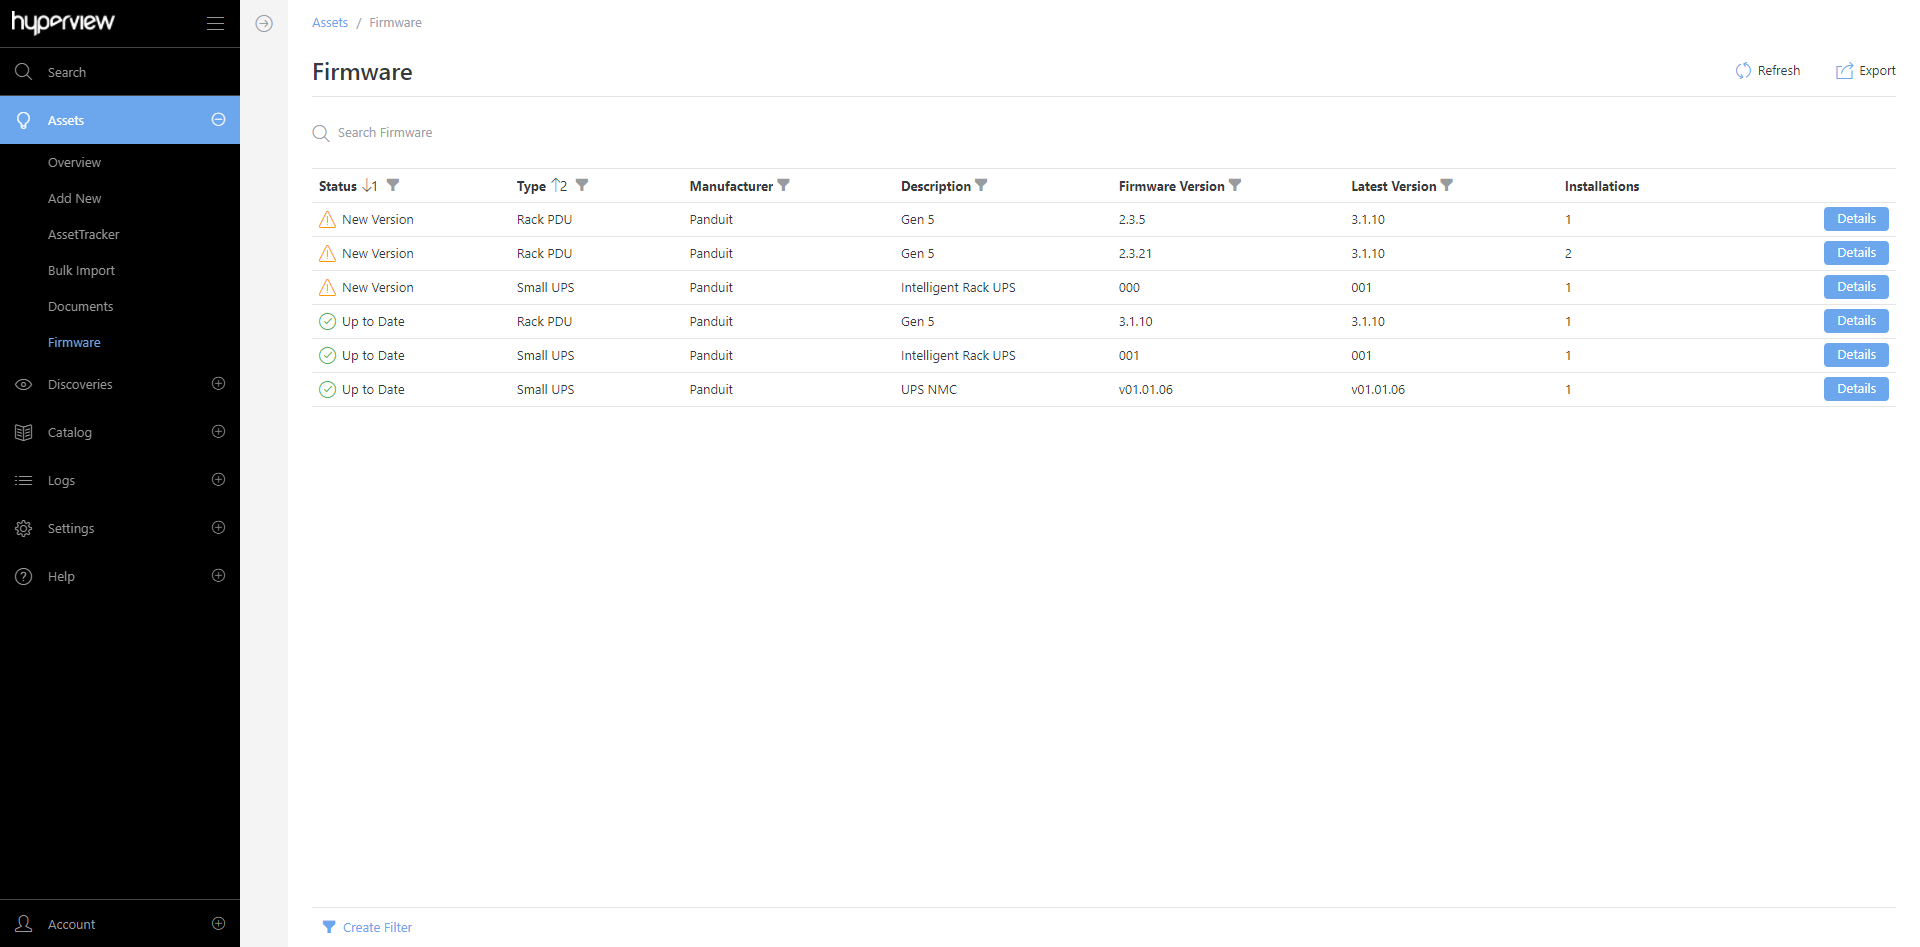
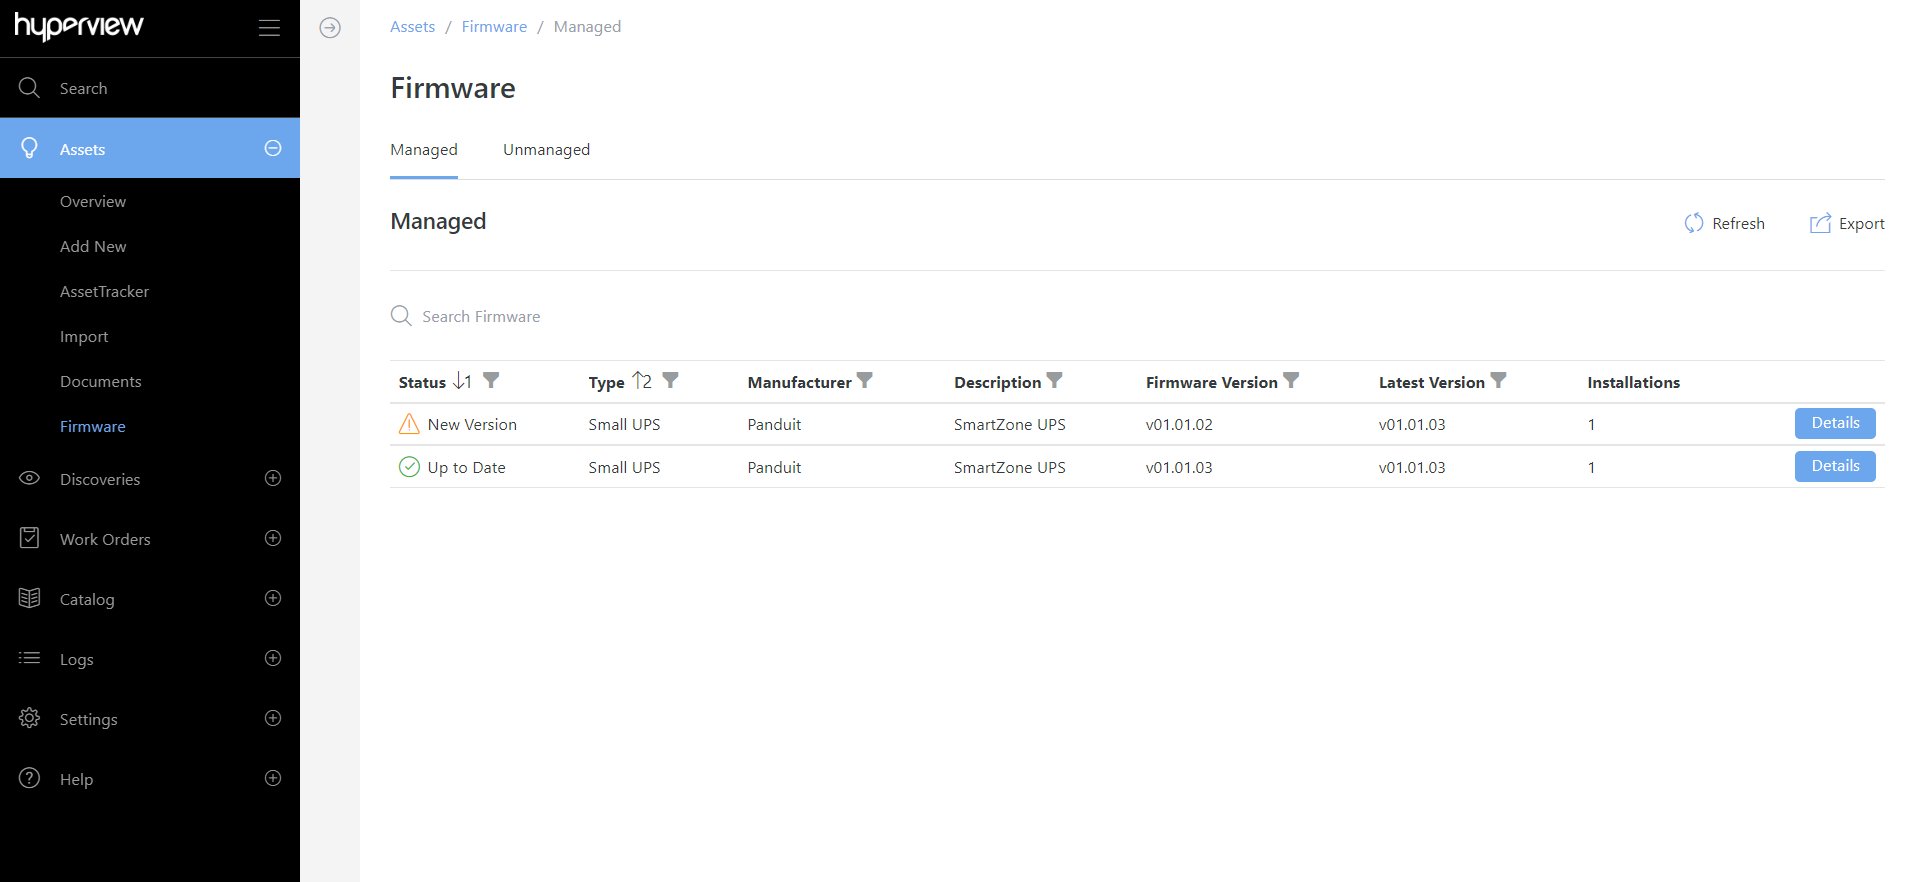
AS-11459 updated firmware docs to reflect changes in release 3.5

diff --git a/documentation/firmware-management/index.rst b/documentation/firmware-management/index.rst
@@ -5,15 +5,16 @@
 Firmware Management
 *******************
 
-Hyperview Firmware Management is a separately licensed set of features that lets you view and interact with firmware records. Firmware Management is powered by the Hyperview Catalog service. With a Firmware Management license you can, for example:
+Hyperview Firmware Management is a separately licensed set of features that lets you view and interact with firmware records. Firmware Management is powered by the Hyperview Catalog service.
+
+With a Firmware Management license you can, for example:
 
 * Look up assets that have a specific firmware version installed
 * Review firmware versions and associated assets
 * Download firmware
 * View firmware release notes
 * Get alerted to outdated firmware
-
-Additional features are planned in upcoming releases.
+* Update firmware for device models with managed firmware, individually or in bulk
 
 .. note:: Only licensed instances will have relevant features. To confirm if you have a Firmware Management license, check the License page (*Settings → License*, Administrator-only).
 
@@ -49,7 +50,7 @@ Note that firmware can only be managed for discoverable physical devices. These 
 * Environmental
 * Fire Control Panel
 * Generator
-* In Row Colling
+* In Row Cooling
 * KVM Switch
 * Monitor
 * Network Device
@@ -66,8 +67,6 @@ Note that firmware can only be managed for discoverable physical devices. These 
 * UPS
 * Utility Breaker
 
-.. note:: Please contact Hyperview Support to ensure firmware versions of your target devices are correctly mapped in Catalog.
-
 ===================================
 How are firmware versions detected?
 ===================================
@@ -78,7 +77,7 @@ Hyperview uses the Firmware Version property (asset → *Information → Propert
 
 In both contexts, an asset is considered to have "managed firmware" only if the asset's firmware group is mapped in Hyperview Product Catalog. (A "firmware group" consists of firmware versions for a specific product model.)
 
-Upon discovery the Firmware Version property becomes read-only to prevent human error (it automatically gets updated upon rediscovery if the installed version has changed). If you merge two assets with discovered and manually updated Firmware Version values, the discovered value is retained and rendered read-only. In other words, discovered firmware versions are always preferred.
+Upon discovery, the Firmware Version property becomes read-only to prevent human error (it automatically gets updated upon rediscovery if the installed version has changed). If you merge two assets with discovered and manually updated Firmware Version values, the discovered value is retained and rendered read-only. In other words, discovered firmware versions are always preferred.
 
 |fv-property|
 
@@ -87,32 +86,29 @@ Upon discovery the Firmware Version property becomes read-only to prevent human 
 ============================================
 Who can access Firmware Management features?
 ============================================
-As of Hyperview 3.4, any user can access Firmware Management features as long as:
-
-* You are using a Firmware Management-licensed instance (see :ref:`View license<View-license-doc>`.
-* You have access to at least one asset with managed firmware.
+As of Hyperview 3.4, any user can access Firmware Management features as long as you are using a Firmware Management-licensed instance (see :ref:`View license<View-license-doc>`.
 
 ====================================
 Navigating Firmware Management pages
 ====================================
 Hyperview features two main Firmware Management pages that can be considered "landing pages" for the feature set. These are:
 
-* The Firmware page (*Assets → Firmware*), which opens a grid of managed firmware that is grouped by manufacturer, asset type, and installed firmware version. It features a Details button at the row level to look up assets that have the same firmware version installed.
+* The Firmware page (*Assets → Firmware*), which opens a grid of managed and unmanaged firmware that is grouped by manufacturer, asset type, and installed firmware version. It features a Details button at the row level to look up assets that have the same firmware version installed.
 * The Information → Firmware page (asset → *Information → Firmware*), which opens a grid of installed and available firmware versions, as well as relevant action buttons.
 
 Why is my Firmware page empty?
 ------------------------------
-The Firmware grid (*Assets → Firmware*) only gets populated when there is at least one asset with a managed firmware version installed.
+The Firmware grid (*Assets → Firmware*) only gets populated when there is at least one asset with a firmware version.
 
 * Administrators can run discoveries to detect assets with firmware version metadata.
 * Power Users and above can specify a Firmware Version value for manually created assets.
 
-In both cases, the asset's firmware group must be mapped in Hyperview Product Catalog. Furthermore, you must :ref:`have access<Who-can-access-doc>` to the asset records to be able to see them.
+In both cases you must :ref:`have access<Who-can-access-doc>` to the asset records to be able to see them.
 
 =====================================================
 Reviewing firmware installations for a firmware group
 =====================================================
-* Go to *Assets → Firmware → Details → Installations* (the Installations tab opens by default).
+* Go to *Assets → Firmware → Managed or Unmanaged → Details → Installations* (the Installations tab opens by default).
 
 The grid will show assets that have a relevant firmware version installed. Note that you must have access to the assets in question to be able to see them.
 
@@ -123,10 +119,8 @@ The grid will show assets that have a relevant firmware version installed. Note 
 ===========================
 Reviewing firmware versions
 ===========================
-To look up firmware versions at the firmware group level:
-* Go to *Assets → Firmware → Details → Versions*.
-
-.. note:: As of Hyperview 3.4, the Firmware grid (*Assets → Firmware*) only shows firmware groups that are mapped in the Hyperview Product Catalog.
+For Managed Firmware, to look up versions at the firmware group level:
+* Go to *Assets → Firmware → Managed → Details → Versions*.
 
 To look up firmware versions for a given asset:
 * Browse to the asset → *Information → Firmware*.
@@ -135,13 +129,17 @@ Note that the Information → Firmware page will indicate the currently installe
 
 |info-firmware|
 
-Downloading a firmware version / Viewing firmware release notes
----------------------------------------------------------------
-The Firmware and Information → Firmware pages both feature Download Firmware and View Release Notes buttons, which allow you to download a certain firmware version or look up its release notes, respectively. Clicking on either button will download the corresponding file to your browser's default download location (or prompt you to choose a download folder, as per your browser configuration).
+The Unmanaged firmware tab *Assets → Firmware → Unmanaged* will contain a list of all detected firmware, firmware versions and installations.
+
+|unmanaged-firmware|
+
+Updating / Downloading a firmware version / Viewing firmware release notes
+--------------------------------------------------------------------------
+The Firmware and Information → Firmware pages both feature Update, View Release Notes and Download Firmware buttons, which allow you to update a firmware version, look up its release notes or download it respectively.
 
 |versions|
 
-.. note:: The exact file format of the firmware installer and release notes file depends on the manufacturer. The Download Firmware and View Release Notes buttons will only be active if the corresponding firmware installer or release notes file are mapped in Hyperview Product Catalog.
+.. note:: The exact file format of the firmware installer and release notes file depends on the manufacturer. The functions will only be active if the corresponding firmware is mapped in Hyperview Product Catalog.
 
 ==================================
 Alarm events for outdated firmware

diff --git a/documentation/firmware-management/media.rst b/documentation/firmware-management/media.rst
@@ -29,3 +29,8 @@
    :width: 5.65307in
    :height: 4.21896in
    :class: border-black
+
+.. |unmanaged-firmware| image:: /firmware-management/media/unmanaged-firmware.png
+   :width: 5.65307in
+   :height: 4.21896in
+   :class: border-black
